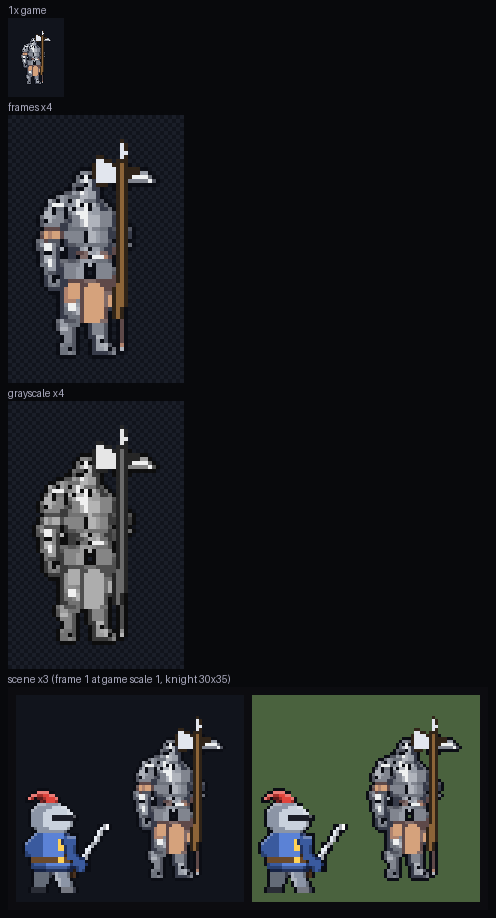
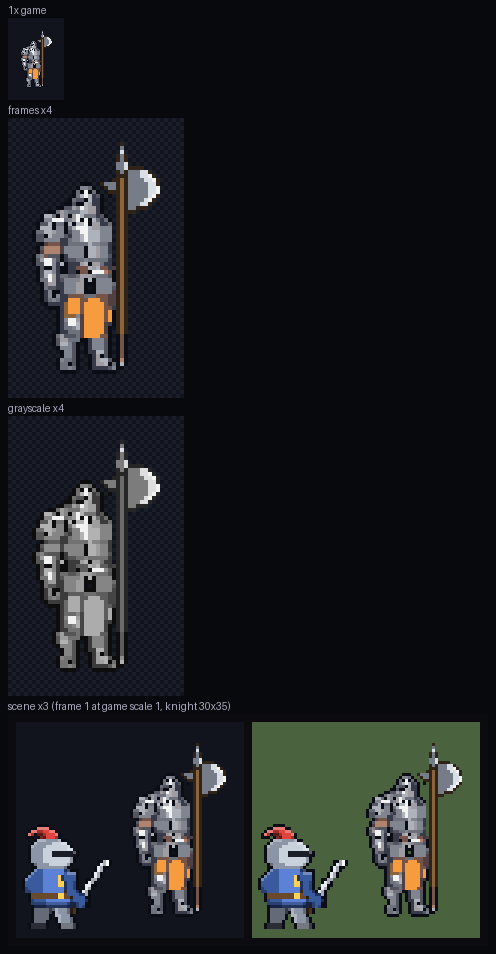
창기사 계열 도트 검수 합격 4종: 창기사 v6(재시안·재정리)·용기병·할버디어(3단 반달 도끼날·어깨)·랜서(원뿔 랜스·빨강 볏·방패) 평균 3.57~3.71, 스크립트 수리·코드 무기만 (PixelLab 누계 16) — 검토 sheets-spear.html ◆절

diff --git a/dev/review/sheets-spear.html b/dev/review/sheets-spear.html
@@ -37,23 +37,25 @@
   </ul>
 </div>
 
-<h2>◆ 도트 검수 합격 대표 (2026-10-17, 검수 루프 v5) — 용기병 · 할버디어 · 랜서</h2>
+<h2>◆ 도트 검수 합격 대표 4종 (2026-10-17) — 창기사 · 용기병 · 할버디어 · 랜서</h2>
 <div class="box"><b>흐름</b> (사용자 지시 "컨셉에만 알맞게 새로" · "도트 퀄리티 검수 에이전트로 통과시켜"):
-<ol><li>직업별 3등신 도트 마네킹 가이드 + 컨셉 프롬프트 → ComfyUI 16장 (<code>dev/spear/design5.py</code>). 1차(v4) 16장은 검수 합격 0 이었다 — 창 1~2px·어두운 한 톤·체형 가이드 약함.</li>
-<li>46칸 직접 축소본으로 형태(의도·읽힘·규칙) 순위 → 직업별 1장 (비평 4명, <code>qa/rank-*.json</code>).</li>
-<li>PixelLab image-to-pixelart 256→64 직업당 1회 (로드맵 승인, 재시도 0) → 검사 세션 polish → 스크립트 수리(<code>fix.py</code>, 용기병: 얼룩 정리·배 띠) → 무기 바꾸기(정리본에서 무기 직선을 찾아 코드로 그린 3px 무기·원뿔 랜스, <code>pix.py</code>) → 20색.</li>
-<li>검수: <code>dev/pixel-qa/qa.py --kind char</code> 검수 시트 → 비평(<code>critic.md</code>) — 목표 문장에 사용자 지적(장수풍뎅이·배불뚝이·가는 창)과 같은 계열 실루엣 겹침을 넣음. 합격선: 전 항목 3+ · 평균 3.5.</li></ol>
-PixelLab 누계 usage 15 (마네킹 11 + 정리 4), ComfyUI 이 단계 32장.</div>
+<ol><li>직업별 3등신 도트 마네킹 가이드 + 컨셉 프롬프트 → ComfyUI (<code>dev/spear/design5.py</code>). 1차(v4) 16장은 검수 합격 0 — 창 1~2px·어두운 한 톤·체형 가이드 약함.</li>
+<li>46칸 직접 축소본으로 형태(의도·읽힘·규칙) 순위 → 직업별 1장 (<code>qa/rank-*.json</code>).</li>
+<li>PixelLab image-to-pixelart 256→64 직업당 1회 + 창기사 재정리 1회 (로드맵 승인, 재시도 0) → 검사 세션 polish.</li>
+<li>스크립트 수리 (<code>fix.py</code>, 손 픽셀 수정 없음): 용기병 얼룩 정리·배 띠·노란 눈 / 할버디어 주황 서코트·어깨 넓히기 / 랜서 파랑 서코트·빨강 볏·방패.</li>
+<li>무기 바꾸기 (<code>pix.py wpnfix</code>): 정리본에서 무기 직선을 찾아 지우고 코드로 그린 무기를 얹음 — 창·용창 3px, 할버드 3단 명암 반달 도끼날·갈고리·창끝, 끊김 없는 원뿔 랜스·둥근 보호대.</li>
+<li>검수: <code>dev/pixel-qa/qa.py --kind char</code> → 비평(<code>critic.md</code>). 목표 문장에 사용자 지적 4건(잡졸·장수풍뎅이·배불뚝이·가는 창)과 같은 계열 실루엣 겹침. 합격선: 전 항목 3+ · 평균 3.5.</li></ol>
+PixelLab 누계 usage 16 (마네킹 11 + 정리 5). 검수 비평 반복: 창기사 4회 · 용기병 3회 · 할버디어 5회 · 랜서 4회.</div>
 <div class="tabs" id="v5tabs"></div>
 <div class="scroll box"><img class="px" id="v5img" alt="합격 줄 세우기"></div>
 <table>
-  <tr><th>직업</th><th>점수 의도/읽힘/깔끔/명암/도트/움직임/규칙</th><th>평균</th><th>판정</th><th>남은 흠 (비평)</th><th>검수 시트</th></tr>
-  <tr><td>용기병</td><td>3/4/3/3/3/5/4</td><td>3.57</td><td class="ok">pass</td><td>배 띠가 얼룩처럼 튐, 노란 눈 없음, 창끝이 용 이빨로 덜 읽힘</td><td><a href="sheets-spear/v5/dragoon-sheet.png">보기</a></td></tr>
-  <tr><td>할버디어</td><td>3/4/3/3/3/5/4</td><td>3.57</td><td class="ok">pass</td><td>주황 서코트가 허벅지 살색처럼, 도끼날이 깃발처럼 사각</td><td><a href="sheets-spear/v5/halberdier-sheet.png">보기</a></td></tr>
-  <tr><td>랜서</td><td>3/4/3/3/3/5/4</td><td>3.57</td><td class="ok">pass</td><td>파랑 서코트 적음, 볏 약함, 랜스 앞쪽이 빨리 가늘어짐</td><td><a href="sheets-spear/v5/cavalier-sheet.png">보기</a></td></tr>
-  <tr><td>창기사</td><td>2/2/2/2/2/5/3</td><td>2.57</td><td class="no">regen</td><td>갑옷 면이 돌 얼룩(석상처럼), 투구·어깨·녹색이 안 섬 → 다시 뽑는 중</td><td></td></tr>
+  <tr><th>직업</th><th>점수 의도/읽힘/깔끔/명암/도트/움직임/규칙</th><th>평균</th><th>판정</th><th>남은 흠 (비평, 선택 손질)</th><th>검수 시트</th></tr>
+  <tr><td>창기사</td><td>3/4/3/3/3/5/4</td><td>3.57</td><td class="ok">pass</td><td>녹색이 깃발에만, 판금 하이라이트가 점처럼</td><td><a href="sheets-spear/v5/lancer-sheet.png">보기</a></td></tr>
+  <tr><td>용기병</td><td>3/4/3/3/3/5/4</td><td>3.57</td><td class="ok">pass</td><td>3등신보다 길쭉, 창끝이 용 이빨로 덜 읽힘, 배 띠가 붕대처럼</td><td><a href="sheets-spear/v5/dragoon-sheet.png">보기</a></td></tr>
+  <tr><td>할버디어</td><td>3/4/3/3/3/5/4</td><td>3.57</td><td class="ok">pass</td><td>투구가 작아 4등신 쪽, 어깨 잡점, 서코트 작음</td><td><a href="sheets-spear/v5/halberdier-sheet.png">보기</a></td></tr>
+  <tr><td>랜서</td><td>4/4/3/3/3/5/4</td><td>3.71</td><td class="ok">pass</td><td>몸통·다리가 어둡게 뭉침, 볏이 가늚, 랜스 평면색</td><td><a href="sheets-spear/v5/cavalier-sheet.png">보기</a></td></tr>
 </table>
-<p class="sub">같은 계열 실루엣 겹침(IoU, 발 맞춤): 용기병–할버디어 0.57 · 용기병–랜서 0.45 · 할버디어–랜서 0.40 (모두 0.8 미만).</p>
+<p class="sub">같은 계열 실루엣 겹침(IoU, 발 맞춤): 창기사–할버디어 0.67 · 창기사–용기병 0.58 · 용기병–할버디어 0.56 · 랜서–나머지 0.40~0.44 (모두 0.8 미만).</p>
 
 <h2>▣ 새 디자인 시안 — 그림체 B(3등신) · 키 46px (2026-10-16, PixelLab 0회 · ComfyUI 20장)</h2>
 <div class="box"><b>사용자 확정</b>: 그림체 B(3등신), 게임 안 키 1.3배(약 46px). 기준 시안은 검사 세션 <code>sheets-sword.html</code> ▣ 절.

diff --git a/dev/spear/design5.py b/dev/spear/design5.py
@@ -86,6 +86,12 @@ def mannequin(spec):
     return im
 
 
+WCOL = {'spear': ((58, 38, 22), (168, 116, 62), (226, 232, 240), (120, 128, 140)),
+        'dragon': ((40, 24, 64), (122, 90, 176), (238, 230, 255), (150, 120, 210)),
+        'halberd': ((48, 36, 24), (140, 100, 56), (226, 230, 238), (118, 124, 136)),
+        'lance': ((40, 44, 56), (230, 234, 242), (250, 252, 255), (200, 50, 50))}
+
+
 def _poly_line(d, p0, p1, w, col):
     a = math.atan2(p1[1] - p0[1], p1[0] - p0[0]); nx, ny = -math.sin(a) * w / 2, math.cos(a) * w / 2
     d.polygon([(p0[0] + nx, p0[1] + ny), (p1[0] + nx, p1[1] + ny), (p1[0] - nx, p1[1] - ny), (p0[0] - nx, p0[1] - ny)], fill=col)
@@ -95,11 +101,7 @@ def draw_weapon(im, kind, grip, ang, u, guide=False):
     """u = 도트 한 칸 (1024 기준). 자루 3칸(외곽선 1 + 속 1 + 외곽선 1), 날·깃발·도끼날·원뿔 랜스를 u 격자 크기로"""
     d = ImageDraw.Draw(im); a = math.radians(ang); ca, sa = math.cos(a), math.sin(a)
     P = lambda t, n=0: (grip[0] + ca * t * u - sa * n * u, grip[1] + sa * t * u + ca * n * u)
-    COL = {'spear': ((58, 38, 22), (168, 116, 62), (226, 232, 240), (120, 128, 140)),
-           'dragon': ((40, 24, 64), (122, 90, 176), (238, 230, 255), (150, 120, 210)),
-           'halberd': ((48, 36, 24), (140, 100, 56), (226, 230, 238), (118, 124, 136)),
-           'lance': ((40, 44, 56), (230, 234, 242), (250, 252, 255), (200, 50, 50))}
-    out, core, steel, steel2 = COL[kind]
+    out, core, steel, steel2 = WCOL[kind]
     if kind in ('spear', 'dragon', 'halberd'):
         back, front = (-10, 30) if kind != 'halberd' else (-14, 26)
         _poly_line(d, P(back), P(front), 3 * u, out); _poly_line(d, P(back + 0.5), P(front - 0.5), 1 * u, core)
@@ -115,24 +117,42 @@ def draw_weapon(im, kind, grip, ang, u, guide=False):
             d.polygon(pts, fill=out)
             d.polygon([P(front + 8), P(front + 1, 1.3), P(front), P(front + 1, -1.3)], fill=steel)
         else:                   # 할버드: 위 창끝 · 앞 도끼날 · 뒤 갈고리
-            d.polygon([P(front + 6), P(front + 1, 1.5), P(front - 0.5), P(front + 1, -1.5)], fill=out)
-            d.polygon([P(front + 5), P(front + 1.2, 0.8), P(front), P(front + 1.2, -0.8)], fill=steel)
-            d.polygon([P(front - 1, -1.5), P(front + 1, -6.5), P(front - 3, -8), P(front - 7, -6.5), P(front - 6, -1.5)], fill=out)
-            d.polygon([P(front - 1.6, -2.2), P(front + 0.2, -6), P(front - 3, -7.2), P(front - 6.2, -6), P(front - 5.4, -2.2)], fill=steel)
-            d.polygon([P(front - 4.6, -6.6), P(front - 1, -6.6), P(front - 3, -7.2)], fill=steel2)
-            d.polygon([P(front - 1.5, 1.5), P(front - 2.5, 4.5), P(front - 4, 3.5), P(front - 4.5, 1.5)], fill=out)
+            d.polygon([P(front + 8), P(front + 1, 2.0), P(front - 0.5), P(front + 1, -2.0)], fill=out)        # 위 창끝 8칸 · 폭 3칸
+            d.polygon([P(front + 7), P(front + 1.2, 1.2), P(front), P(front + 1.2, -1.2)], fill=steel2)
+            d.line([P(front + 6.5, 0.3), P(front + 1.5, 0.6)], fill=steel, width=max(1, int(u * 0.9)))
+            arc = lambda r, k: [P(front - 3.5 + r * math.sin(math.pi * i / k) * 0 + (r * math.cos(math.pi * (i / k - 0.5))) * 0.0 - 3.5 + 3.5 * math.cos(math.pi * (i / k - 0.5)) * 0, -1.2) for i in range(1)]
+            # 반달 도끼날 3단 명암 (검수: "명암 없는 흰 반원이라 깃발·막대사탕처럼"): 어두운 테 → 중간 강철 → 날 쪽 밝은 띠 → 날 끝 흰 1줄
+            R = lambda r1, r2, off: [P(front - 3.5 + r1 * math.sin(math.pi * (i / 12 - 0.5)), off + r2 * math.cos(math.pi * (i / 12 - 0.5))) for i in range(13)]
+            d.polygon([P(front + 2.9, 1.2)] + R(6.2, 8.6, 1.2) + [P(front - 9.9, 1.2)], fill=out)
+            d.polygon([P(front + 1.9, 1.6)] + R(5.2, 7.4, 1.6) + [P(front - 8.9, 1.6)], fill=steel2)
+            d.polygon(R(5.2, 7.4, 1.6)[2:11] + list(reversed(R(4.0, 5.2, 1.6)[2:11])), fill=steel)
+            d.line(R(5.0, 7.2, 1.6)[3:10], fill=(255, 255, 255), width=max(1, int(u * 0.9)))
+            d.polygon([P(front - 1.2, -1.5), P(front - 1.6, -5.5), P(front - 2.8, -6.0), P(front - 5.2, -1.5)], fill=out)   # 뒤 갈고리 3×4칸
+            d.polygon([P(front - 1.8, -1.9), P(front - 2.0, -4.6), P(front - 2.6, -4.9), P(front - 4.4, -1.9)], fill=steel2)
     else:                       # 랜스: 손 뒤 짧은 자루, 손 앞 둥근 보호대, 밑동 7칸 → 끝 2칸 원뿔
         _poly_line(d, P(-6), P(1), 3 * u, out); _poly_line(d, P(-5.5), P(0.5), 1 * u, (110, 80, 50))
-        d.polygon([P(2, 3.6), P(32, 1.0), P(33.5, 0), P(32, -1.0), P(2, -3.6)], fill=out)
-        d.polygon([P(2.5, 2.7), P(31.5, 0.4), P(31.5, -0.4), P(2.5, -2.7)], fill=steel)
+        # 원뿔: 밑동 7칸 → 중간까지 5칸 유지 → 끝 몇 칸에서만 좁아짐 (검수 "앞쪽 절반이 빨리 가늘어져 점선처럼")
+        d.polygon([P(2, 3.6), P(18, 2.8), P(28, 2.0), P(33.5, 0), P(28, -2.0), P(18, -2.8), P(2, -3.6)], fill=out)
+        d.polygon([P(2.5, 2.7), P(18, 1.9), P(27.5, 1.2), P(32.6, 0.5), P(32.6, -0.5), P(27.5, -1.2), P(18, -1.9), P(2.5, -2.7)], fill=steel)   # 끝 2칸 뾰족
+        d.polygon([P(3, 2.7), P(18, 1.9), P(27.5, 1.1), P(27.5, 0.6), P(18, 1.2), P(3, 1.6)], fill=(255, 255, 255))
         if not guide:
-            for k in range(4):  # 빨강 띠
-                t0 = 6 + k * 6.5; r0 = 2.7 - (t0 - 2.5) * 2.3 / 29; r1 = 2.7 - (t0 + 2 - 2.5) * 2.3 / 29
-                d.polygon([P(t0, r0), P(t0 + 2, r1), P(t0 + 2, -r1), P(t0, -r0)], fill=steel2)
+            # 빨강 띠: 강철 안쪽 폭(외곽선 안)과 같은 폭으로 이어 칠한다 — 띠 사이에 어두운 틈이 끼면 점선 막대처럼 읽힌다(검수)
+            rad = lambda t: 2.7 - (t - 2.5) * 0.8 / 15.5 if t <= 18 else 1.9 - (t - 18) * 0.8 / 9.5
+            for k in range(3):
+                t0 = 6 + k * 7.5; t1 = t0 + 3
+                d.polygon([P(t0, rad(t0)), P(t1, rad(t1)), P(t1, -rad(t1)), P(t0, -rad(t0))], fill=steel2)
         g = P(1.2)
         d.ellipse([g[0] - 4.6 * u, g[1] - 4.6 * u, g[0] + 4.6 * u, g[1] + 4.6 * u], fill=out)
         d.ellipse([g[0] - 3.6 * u, g[1] - 3.6 * u, g[0] + 3.6 * u, g[1] + 3.6 * u], fill=(190, 196, 210))
         d.ellipse([g[0] - 1.6 * u, g[1] - 2.8 * u, g[0] + 0.4 * u, g[1] - 1.2 * u], fill=(250, 252, 255))
+
+
+# 창기사 v6 (검수 regen: "갑옷 면이 돌 얼룩, 투구·둥근 어깨·녹색이 안 섬") — 프롬프트만 바꿔 같은 가이드로 다시
+SPEC['lancer6'] = dict(SPEC['lancer'], who=(
+    'A young lancer knight warrior, proud upright stance with chest out, clean flat polished steel plate armor with large smooth shading '
+    'planes and a few crisp highlights, big rounded steel shoulder pauldrons, a closed knight great helm with a dark horizontal visor slit '
+    'and a small green plume, a forest green tabard over the breastplate down to the knees, a short green cape, gripping a thick wooden '
+    'spear in the front hand. Smooth metal, not stone, not rock texture, not mottled, no hood.' + LIGHT))
 
 
 def gen(classes, seeds=None):
@@ -141,7 +161,7 @@ def gen(classes, seeds=None):
     for cls in classes:
         gd = mannequin(SPEC[cls]); gd.save(os.path.join(RAW, f'_guide5-{cls}.png'))
         for s in seeds or D.SEEDS:
-            out = os.path.join(RAW, f'{cls}5-{s}.png')
+            out = os.path.join(RAW, f'{cls}5-{s}.png' if not cls[-1].isdigit() else f'{cls}-{s}.png')
             if os.path.exists(out): continue
             ims, dt = G('zimg', D.SW.STYLE.format(who=SPEC[cls]['who'], body=D.BODY), seed=s, denoise=0.85, init=gd)
             ims[0].save(out); print(cls, 'v5', s, f'{dt:.1f}s', flush=True)

diff --git a/dev/spear/pix.py b/dev/spear/pix.py
@@ -13,9 +13,22 @@ RAW = os.path.join(HERE, 'design', 'raw'); PL = os.path.join(HERE, 'work', 'pl')
 _sp = importlib.util.spec_from_file_location('sw_polish', os.path.join(HERE, '..', 'sheets-sword', 'polish.py'))
 POL = importlib.util.module_from_spec(_sp); _sp.loader.exec_module(POL)
 BODY, OUTN = 46, 64
-# 검수 1차(정리본) fix 판정에 따른 수리 단계 (fix.py). 합격(랜서·할버디어)은 그대로
-FIX = {'lancer': ('tidy', 'green'), 'dragoon': ('tidy', 'belly')}      # eye: 머리 자리를 창과 구분 못 해 뺌
-FIST = {'lancer'}
+import re
+
+
+def parse(name):
+    """'lancer5-51' → ('lancer', 'lancer'), 'lancer6-51' → ('lancer', 'lancer6') : (직업 = 작업 폴더·수리 키, design5.SPEC 키)"""
+    m = re.match(r'([A-Za-z]+)(\d)-', name); return m.group(1), (m.group(1) if m.group(2) == '5' else m.group(1) + m.group(2))
+# 정리본 검수 fix 판정에 따른 수리 단계 (fix.py)
+#  창기사: v6 정리본은 갑옷이 이미 매끈해 tidy·green 이 오히려 하이라이트를 지운다 (v5 51 에만 썼다)
+#  할버디어: surcoat_up 은 허리에 주황 네모 조각처럼 붙어 뺐다
+FIX = {'lancer': (),
+       'dragoon': ('tidy', 'belly'),
+       'halberdier': ('surcoat_orange', 'shoulders'),
+       'cavalier': ('surcoat_blue', 'red_up')}
+# 무기를 얹은 뒤 하는 수리: 용기병 노란 눈 (무기 색을 빼야 머리 앞 끝을 찾는다)
+AFTER = {'dragoon': ('eye_after',)}
+FIST = set()             # v6 정리본은 쥔 손이 보임
 
 
 def frame(name):
@@ -41,7 +54,7 @@ def prep(name):
 def grip64(name):
     """가이드 손 점·각도(design5.SPEC) → 64 출력 좌표 (자르기 상자 기준)"""
     import design5 as D5
-    cls = name.split('5-')[0]; im, (x0, y0, S) = frame(name)
+    _, cls = parse(name); im, (x0, y0, S) = frame(name)
     top, foot = body_bounds(im); sc = (foot - top) / (D5.F0 - D5.T0)
     g = (D5.CX + (D5.GRIP[0] - D5.CX) * sc, top + (D5.GRIP[1] - D5.T0) * sc)
     return ((g[0] - x0) / S * OUTN, (g[1] - y0) / S * OUTN), D5.SPEC[cls]['ang'], D5.SPEC[cls]['wpn']
@@ -61,7 +74,7 @@ def wpnfix(im, name, off):
         if dd[0] * d[0] + dd[1] * d[1] < 0: dd = (-dd[0], -dd[1])
         t = (gx - c[0]) * dd[0] + (gy - c[1]) * dd[1]; gx, gy = c[0] + dd[0] * t, c[1] + dd[1] * t       # 손 점을 맞춘 직선 위로
         ang = math.degrees(math.atan2(dd[1], dd[0]))
-        erase = set(near_line(pts, (gx, gy), dd, 1.6, 3, 60))        # 모델 무기 (손 앞)
+        erase = set(near_line(pts, (gx, gy), dd, 2.5, 3, 60))        # 모델 무기 (손 앞) — 1.6 이면 원래 창대가 옆에 한 줄 남았다
         for p in erase: P[p] = (0, 0, 0, 0)
         fill_holes(im, erase)
     # 코드 무기: 큰 캔버스에 8배로 그려 칸 가운데 표본 → 바탕(투명) 위 무기 칸만 덮는다
@@ -78,8 +91,22 @@ def wpnfix(im, name, off):
     return o.crop(bb), (gx + M - bb[0], gy + M - bb[1])
 
 
+def POL_comps(im):
+    P = im.load(); W, H = im.size; left = {(x, y) for y in range(H) for x in range(W) if P[x, y][3]}; out = []
+    while left:
+        st = [left.pop()]; c = set(st)
+        while st:
+            x, y = st.pop()
+            for a in (-1, 0, 1):
+                for b in (-1, 0, 1):
+                    q = (x + a, y + b)
+                    if q in left: left.discard(q); c.add(q); st.append(q)
+        out.append(c)
+    return out
+
+
 def post(name):
-    cls = name.split('5-')[0].rstrip('0123456789')
+    cls, _ = parse(name)
     raw = Image.open(os.path.join(HERE, 'work', cls, f'{name}-pl-0.png')).convert('RGBA')
     clean = POL.unbg(raw); bb = clean.getbbox(); clean = clean.crop(bb)
     pol = POL.polish(clean.copy())                       # 손질 먼저 (무기 색이 14색 줄이기에 섞여 몸 색이 탁해지지 않게)
@@ -88,6 +115,17 @@ def post(name):
         pol = getattr(FX, step)(pol)
     pol, g = wpnfix(pol, name, (bb[0] - 1, bb[1] - 1))  # polish 의 외곽선 1칸 여백만큼 원점이 옮겨짐
     if cls in FIST: pol = FX.fist(pol, g)
+    import design5 as D5
+    wcols = {c for c in __import__('itertools').chain.from_iterable(D5.WCOL.values())}
+    for step in AFTER.get(cls, ()):
+        pol = getattr(FX, step)(pol, wcols)
+    from wpn import fill_holes  # noqa (무기 지운 자리 메우기는 wpnfix 안에서)
+    P_ = pol.load(); comps = POL_comps(pol)                 # 떨어진 6칸 미만 조각 지우기 (검수: 자루 옆 '!' 부스러기)
+    if comps:
+        big = max(len(c) for c in comps)
+        for c in comps:
+            if len(c) < 6 and len(c) < big:
+                for p_ in c: P_[p_] = (0, 0, 0, 0)
     pol = POL.quant(pol, 20)                             # 위 테 밝히기·무기 색으로 25~30색이 돼 색 경보(>24) → 마지막에 20색
     clean.save(os.path.join(PL, f'{name}-clean.png')); pol.save(os.path.join(PL, f'{name}-polish.png'))
     print(name, 'clean', clean.size, 'polish', pol.size)

diff --git a/dev/spear/fix.py b/dev/spear/fix.py
@@ -111,3 +111,76 @@ def fist(im, g, col=((120, 126, 140), (196, 202, 214))):
         x, y = gx + a, gy + b - 1
         if 0 <= x < W and 0 <= y < H: P[x, y] = col[k] + (255,)
     return im
+
+
+def recolor_band(im, pick, ramp, y_from, y_to, x_frac=1.0):
+    """몸 높이 비율 y_from~y_to, 가운데 폭 x_frac 안에서 pick(c) 인 칸을 ramp(어두움→밝음) 로 밝기 순위대로 다시 칠한다"""
+    im = im.copy(); P = im.load(); W, H = im.size
+    pts = [(x, y) for y in range(H) for x in range(W) if P[x, y][3] and P[x, y] != OUT]
+    y0 = min(y for _, y in pts); y1 = max(y for _, y in pts); hh = y1 - y0
+    sel = []
+    for (x, y) in pts:
+        if not (y0 + hh * y_from <= y <= y0 + hh * y_to): continue
+        row = [xx for xx, yy in pts if yy == y]; xm = (min(row) + max(row)) / 2; half = (max(row) - min(row)) / 2 * x_frac
+        if abs(x - xm) <= half and pick(P[x, y]): sel.append((x, y))
+    if not sel: return im
+    Ls = sorted({lum(P[p]) for p in sel})
+    for p in sel:
+        r = Ls.index(lum(P[p])) / max(1, len(Ls) - 1); P[p] = ramp[min(len(ramp) - 1, int(r * len(ramp)))] + (255,)
+    return im
+
+
+def _hls(c): return colorsys.rgb_to_hls(c[0] / 255, c[1] / 255, c[2] / 255)
+
+
+def surcoat_orange(im):
+    """할버디어: 허리 아래 살색(주황·살구 계열 밝은 칸)을 주황 천 3단으로 — 검수 "서코트가 맨허벅지 살색처럼" """
+    skin = lambda c: 0.02 < _hls(c)[0] < 0.12 and _hls(c)[2] > 0.25
+    return recolor_band(im, skin, ((150, 70, 24), (214, 112, 36), (246, 156, 62)), 0.5, 0.85)
+
+
+def surcoat_blue(im):
+    """랜서: 가슴~허리 가운데 무채색 칸을 파랑 서코트 3단으로 — 검수 "파랑 서코트가 거의 없음" """
+    gray = lambda c: _hls(c)[2] < 0.22 and 60 < lum(c) < 200
+    return recolor_band(im, gray, ((30, 52, 120), (48, 84, 178), (90, 130, 220)), 0.42, 0.68, 0.45)
+
+
+def eye_after(im, wcols, col=(255, 214, 64, 255)):
+    """용기병: 무기 칸(wcols 색)을 빼고 몸 위 22% 띠의 앞 끝(주둥이)에서 3칸 뒤에 노란 눈 1도트"""
+    im = im.copy(); P = im.load(); W, H = im.size
+    pts = [(x, y) for y in range(H) for x in range(W) if P[x, y][3] and P[x, y][:3] not in wcols]
+    y0 = min(y for _, y in pts); y1 = max(y for _, y in pts)
+    band = [(x, y) for x, y in pts if y < y0 + (y1 - y0) * 0.22 and P[x, y] != OUT]
+    if not band: return im
+    fx = max(x for x, _ in band); ys = sorted(y for x, y in band if x >= fx - 1); ey = ys[len(ys) // 2] - 1
+    for ex in (fx - 3, fx - 4):
+        if P[ex, ey][3] and P[ex, ey] != OUT: P[ex, ey] = col; break
+    return im
+
+
+def red_up(im):
+    """랜서: 어두운 자주·빨강 계열 칸(볏·방패)을 밝은 빨강 3단으로 — 검수 "볏·방패 문장이 빨강으로 안 보임" """
+    red = lambda c: (_hls(c)[0] > 0.88 or _hls(c)[0] < 0.03) and _hls(c)[2] > 0.25 and lum(c) > 30
+    return recolor_band(im, red, ((150, 28, 36), (210, 44, 48), (246, 96, 88)), 0.0, 1.0, 1.0)
+
+
+def shoulders(im, rows=(0.22, 0.34)):
+    """할버디어: 어깨 높이 줄의 양 끝 칸을 바깥으로 1칸 늘린다 (같은 색, 외곽선은 그 바깥) — 검수 "역삼각이 약함, 넓은 사각 어깨 덜 보임" """
+    im = im.copy(); P = im.load(); W, H = im.size
+    pts = [(x, y) for y in range(H) for x in range(W) if P[x, y][3]]
+    y0 = min(y for _, y in pts); y1 = max(y for _, y in pts); hh = y1 - y0
+    o = Image.new('RGBA', (W + 2, H)); o.alpha_composite(im, (1, 0)); O = o.load()
+    for y in range(int(y0 + hh * rows[0]), int(y0 + hh * rows[1]) + 1):
+        xs = [x + 1 for x in range(W) if P[x, y][3]]
+        if not xs: continue
+        for edge, step in ((min(xs), -1), (max(xs), 1)):
+            inner = edge - step                                # 외곽선 안쪽 칸 색
+            c = O[inner, y] if O[inner, y] != OUT else O[edge, y]
+            O[edge + step, y] = OUT; O[edge, y] = c if c[3] else O[edge, y]
+    return o
+
+
+def surcoat_up(im):
+    """할버디어: 가슴 아래~벨트 가운데 띠의 무채색 칸을 주황 천으로 — 검수 "서코트가 앞치마 조각처럼" """
+    gray = lambda c: _hls(c)[2] < 0.2 and 50 < lum(c) < 210
+    return recolor_band(im, gray, ((150, 70, 24), (214, 112, 36), (246, 156, 62)), 0.40, 0.52, 0.32)

diff --git a/dev/spear/usage.md b/dev/spear/usage.md
@@ -14,3 +14,4 @@
 | 8 | dragoon | `/image-to-pixelart` | dragoon5-51-pl: 기준 그림 정리 256→64 | 1.0 | 13.0 | 1121.0 |
 | 9 | lancer | `/image-to-pixelart` | lancer5-51-pl: 기준 그림 정리 256→64 | 1.0 | 14.0 | 1120.0 |
 | 10 | halberdier | `/image-to-pixelart` | halberdier5-51-pl: 기준 그림 정리 256→64 | 1.0 | 15.0 | 1117.0 |
+| 11 | lancer | `/image-to-pixelart` | lancer6-51-pl: 기준 그림 정리 256→64 | 1.0 | 16.0 | 1109.0 |
